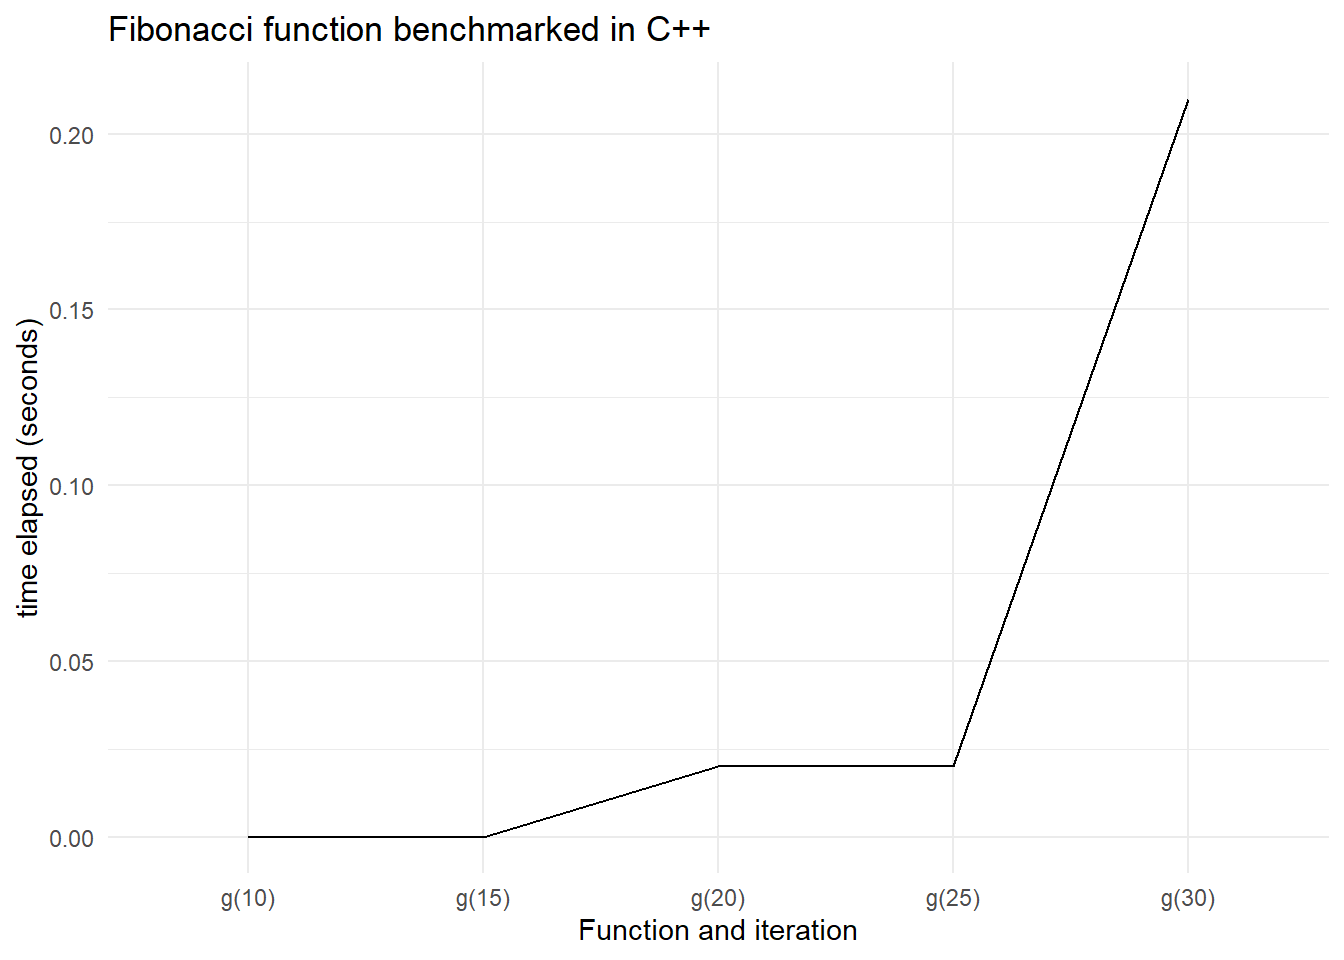
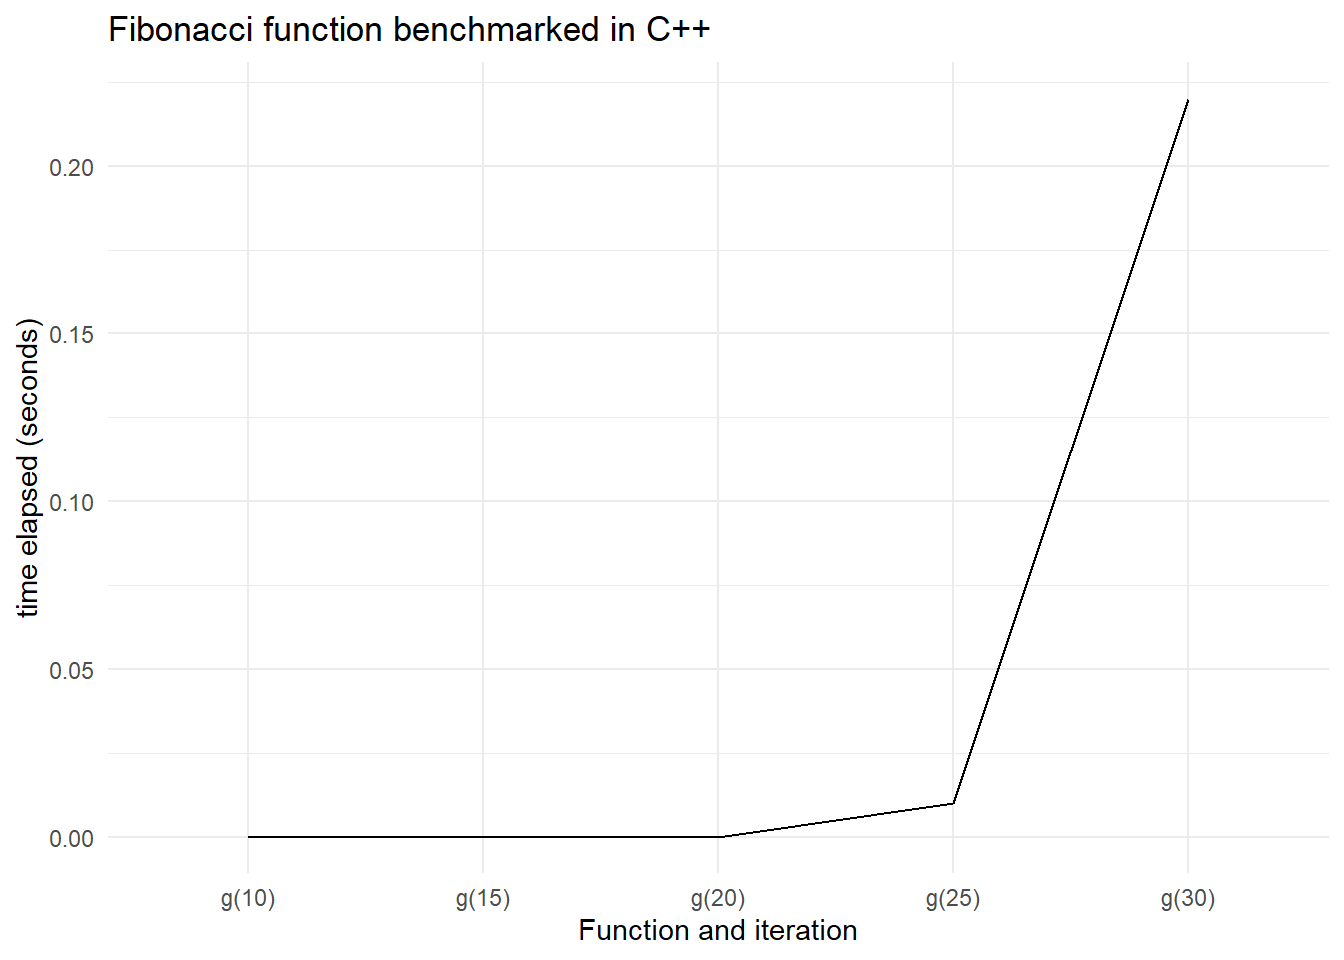
automated commit

diff --git a/public/2021/03/23/rcpp-integration/index.html b/public/2021/03/23/rcpp-integration/index.html
@@ -103,19 +103,22 @@ F_{n-1} + F_{n-2}, &amp; n&gt;2
 
 sapply(1:10, f)</code></pre>
 <pre><code>##  [1]  1  1  2  3  5  8 13 21 34 55</code></pre>
-<pre class="r"><code>(Rscores &lt;- benchmark(f(10),f(15), f(20), f(25))[,1:4])</code></pre>
+<pre class="r"><code>Rscores &lt;- benchmark(f(10),f(15), f(20), f(25))[,1:4]
+
+Rscores</code></pre>
 <pre><code>##    test replications elapsed relative
 ## 1 f(10)          100    0.00       NA
 ## 2 f(15)          100    0.07       NA
-## 3 f(20)          100    0.75       NA
-## 4 f(25)          100    8.59       NA</code></pre>
-<pre class="r"><code>Rscores %&gt;% 
+## 3 f(20)          100    0.80       NA
+## 4 f(25)          100    8.61       NA</code></pre>
+<pre class="r"><code>p &lt;- Rscores %&gt;% 
   filter(elapsed&gt;0) %&gt;% 
   ggplot(aes(test,elapsed, group = 1))+
   geom_line()+theme_minimal()+
   labs(title = &quot;Fibonacci function benchmarked in R&quot;,
        y = &quot;time elapsed (seconds)&quot;,
-       x = &quot;Function and iteration&quot;)</code></pre>
+       x = &quot;Function and iteration&quot;) 
+print(p)</code></pre>
 <p><img src="/2021/03/23/rcpp-integration/index_files/figure-html/unnamed-chunk-3-1.png" width="672" /></p>
 </div>
 <div id="c-implementation" class="section level3">
@@ -130,19 +133,23 @@ int g(int n) {
 }</code></pre>
 <pre class="r"><code>sapply(0:10, g)</code></pre>
 <pre><code>##  [1]  0  1  1  2  3  5  8 13 21 34 55</code></pre>
-<pre class="r"><code>(Cscores &lt;- benchmark(g(10),g(15), g(20), g(25),g(30))[,1:4])</code></pre>
+<pre class="r"><code>Cscores &lt;- benchmark(g(10),g(15), g(20), g(25),g(30))[,1:4]
+
+Cscores</code></pre>
 <pre><code>##    test replications elapsed relative
 ## 1 g(10)          100    0.00       NA
 ## 2 g(15)          100    0.00       NA
-## 3 g(20)          100    0.02       NA
-## 4 g(25)          100    0.02       NA
-## 5 g(30)          100    0.21       NA</code></pre>
-<pre class="r"><code>Cscores %&gt;% 
+## 3 g(20)          100    0.00       NA
+## 4 g(25)          100    0.01       NA
+## 5 g(30)          100    0.22       NA</code></pre>
+<pre class="r"><code>p &lt;- Cscores %&gt;% 
   ggplot(aes(test,elapsed, group = 1))+
   geom_line()+ theme_minimal()+
   labs(title = &quot;Fibonacci function benchmarked in C++&quot;,
        y = &quot;time elapsed (seconds)&quot;,
-       x = &quot;Function and iteration&quot;)</code></pre>
+       x = &quot;Function and iteration&quot;)
+
+print(p)</code></pre>
 <p><img src="/2021/03/23/rcpp-integration/index_files/figure-html/unnamed-chunk-7-1.png" width="672" /></p>
 </div>
 </div>

diff --git a/content/post/2021-03-23-rcpp-integration/index.html b/content/post/2021-03-23-rcpp-integration/index.html
@@ -37,19 +37,22 @@ F_{n-1} + F_{n-2}, &amp; n&gt;2
 
 sapply(1:10, f)</code></pre>
 <pre><code>##  [1]  1  1  2  3  5  8 13 21 34 55</code></pre>
-<pre class="r"><code>(Rscores &lt;- benchmark(f(10),f(15), f(20), f(25))[,1:4])</code></pre>
+<pre class="r"><code>Rscores &lt;- benchmark(f(10),f(15), f(20), f(25))[,1:4]
+
+Rscores</code></pre>
 <pre><code>##    test replications elapsed relative
 ## 1 f(10)          100    0.00       NA
 ## 2 f(15)          100    0.07       NA
-## 3 f(20)          100    0.75       NA
-## 4 f(25)          100    8.59       NA</code></pre>
-<pre class="r"><code>Rscores %&gt;% 
+## 3 f(20)          100    0.80       NA
+## 4 f(25)          100    8.61       NA</code></pre>
+<pre class="r"><code>p &lt;- Rscores %&gt;% 
   filter(elapsed&gt;0) %&gt;% 
   ggplot(aes(test,elapsed, group = 1))+
   geom_line()+theme_minimal()+
   labs(title = &quot;Fibonacci function benchmarked in R&quot;,
        y = &quot;time elapsed (seconds)&quot;,
-       x = &quot;Function and iteration&quot;)</code></pre>
+       x = &quot;Function and iteration&quot;) 
+print(p)</code></pre>
 <p><img src="{{< blogdown/postref >}}index_files/figure-html/unnamed-chunk-3-1.png" width="672" /></p>
 </div>
 <div id="c-implementation" class="section level3">
@@ -64,19 +67,23 @@ int g(int n) {
 }</code></pre>
 <pre class="r"><code>sapply(0:10, g)</code></pre>
 <pre><code>##  [1]  0  1  1  2  3  5  8 13 21 34 55</code></pre>
-<pre class="r"><code>(Cscores &lt;- benchmark(g(10),g(15), g(20), g(25),g(30))[,1:4])</code></pre>
+<pre class="r"><code>Cscores &lt;- benchmark(g(10),g(15), g(20), g(25),g(30))[,1:4]
+
+Cscores</code></pre>
 <pre><code>##    test replications elapsed relative
 ## 1 g(10)          100    0.00       NA
 ## 2 g(15)          100    0.00       NA
-## 3 g(20)          100    0.02       NA
-## 4 g(25)          100    0.02       NA
-## 5 g(30)          100    0.21       NA</code></pre>
-<pre class="r"><code>Cscores %&gt;% 
+## 3 g(20)          100    0.00       NA
+## 4 g(25)          100    0.01       NA
+## 5 g(30)          100    0.22       NA</code></pre>
+<pre class="r"><code>p &lt;- Cscores %&gt;% 
   ggplot(aes(test,elapsed, group = 1))+
   geom_line()+ theme_minimal()+
   labs(title = &quot;Fibonacci function benchmarked in C++&quot;,
        y = &quot;time elapsed (seconds)&quot;,
-       x = &quot;Function and iteration&quot;)</code></pre>
+       x = &quot;Function and iteration&quot;)
+
+print(p)</code></pre>
 <p><img src="{{< blogdown/postref >}}index_files/figure-html/unnamed-chunk-7-1.png" width="672" /></p>
 </div>
 </div>

diff --git a/public/2021/03/23/rcpp-integration/index_files/header-attrs/header-attrs.js b/public/2021/03/23/rcpp-integration/index_files/header-attrs/header-attrs.js
@@ -1,0 +1,12 @@
+// Pandoc 2.9 adds attributes on both header and div. We remove the former (to
+// be compatible with the behavior of Pandoc < 2.8).
+document.addEventListener('DOMContentLoaded', function(e) {
+  var hs = document.querySelectorAll("div.section[class*='level'] > :first-child");
+  var i, h, a;
+  for (i = 0; i < hs.length; i++) {
+    h = hs[i];
+    if (!/^h[1-6]$/i.test(h.tagName)) continue;  // it should be a header h1-h6
+    a = h.attributes;
+    while (a.length > 0) h.removeAttribute(a[0].name);
+  }
+});
